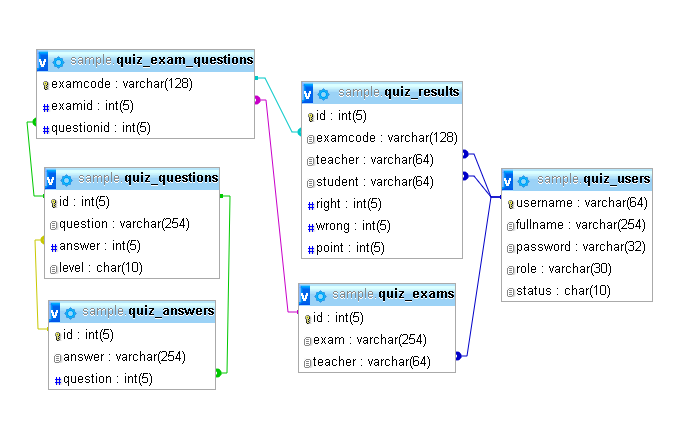
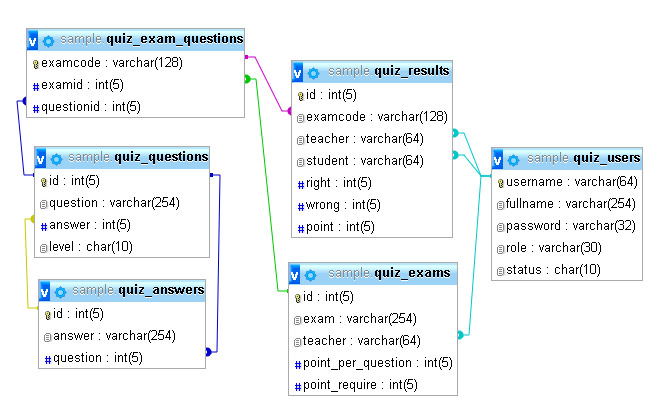
Update database

Changed region(s): [[0.0301, 0.0585, 0.9925, 0.9659], [0.6617, 0.9366, 0.6917, 0.9659]]

diff --git a/QuizApp/app_exams.php b/QuizApp/app_exams.php
@@ -3,7 +3,8 @@
   session_start();
   if(isset($_SESSION['user']) && $_SESSION['user']['role'] == 'teacher') {
     // do something...
-    $sql_select_exams = "SELECT * FROM quiz_exams";
+    $teacher = $_SESSION['user']['username'];
+    $sql_select_exams = "SELECT * FROM quiz_exams WHERE teacher = '$teacher'";
     $data_exams = $db->fetch_assoc($sql_select_exams,0);
   } else {
     echo '<meta http-equiv="refresh" content="0,url='.$base_url.'app_home.php">';
@@ -39,31 +40,29 @@
         <thead>
           <tr>
             <th>STT</th>
-            <th>Tài khoản</th>
-            <th>Tên đầy đủ</th>
-            <th>Quyền hạn</th>
-            <th>Tình trạng</th>
+            <th>Đề thi</th>
+            <th>Điểm cần đạt</th>
             <th>Cập nhật</th>
           </tr>
         </thead>
         <tbody>
           <?php
             $i=1;
-            foreach ($data_accounts as $key => $row_user) {
-              // code...
-              echo '<tr>
-                <td>'.$i.'</td>
-                <td>'.$row_user['username'].'</td>
-                <td>'.$row_user['fullname'].'</td>
-                <td>'.(($row_user['role'] == 'admin') ? 'Quản trị viên' : (($row_user['role']=='teacher') ? 'Giảng viên' : (($row_user['role']=='student') ? 'Thí sinh' : '-'))).'</td>
-                <td>'.(($row_user['status']=='active') ? 'Hoạt động' : 'Tạm khóa').'</td>
-                <td>
-                  <a href="'.$base_url.'app_account_edit/'.$row_user['username'].'" class="btn btn-info">Sửa</a>
-                  |
-                  <a href="'.$base_url.'app_account_delete/'.$row_user['username'].'" class="btn btn-danger">Xóa</a>
-                </td>
-              </tr>';
-              $i++;
+            if(count($data_exams) > 0) {
+              foreach ($data_exams as $key => $row_exam) {
+                // code...
+                echo '<tr>
+                  <td>'.$i.'</td>
+                  <td>'.$row_exam['exam'].'</td>
+                  <td>'.$row_exam['point_require'].'</td>
+                  <td>
+                    <a href="'.$base_url.'app_account_edit/'.$row_exam['id'].'" class="btn btn-info">Sửa</a>
+                    |
+                    <a href="'.$base_url.'app_account_delete/'.$row_exam['id'].'" class="btn btn-danger">Xóa</a>
+                  </td>
+                </tr>';
+                $i++;
+              }
             }
           ?>
         </tbody>
